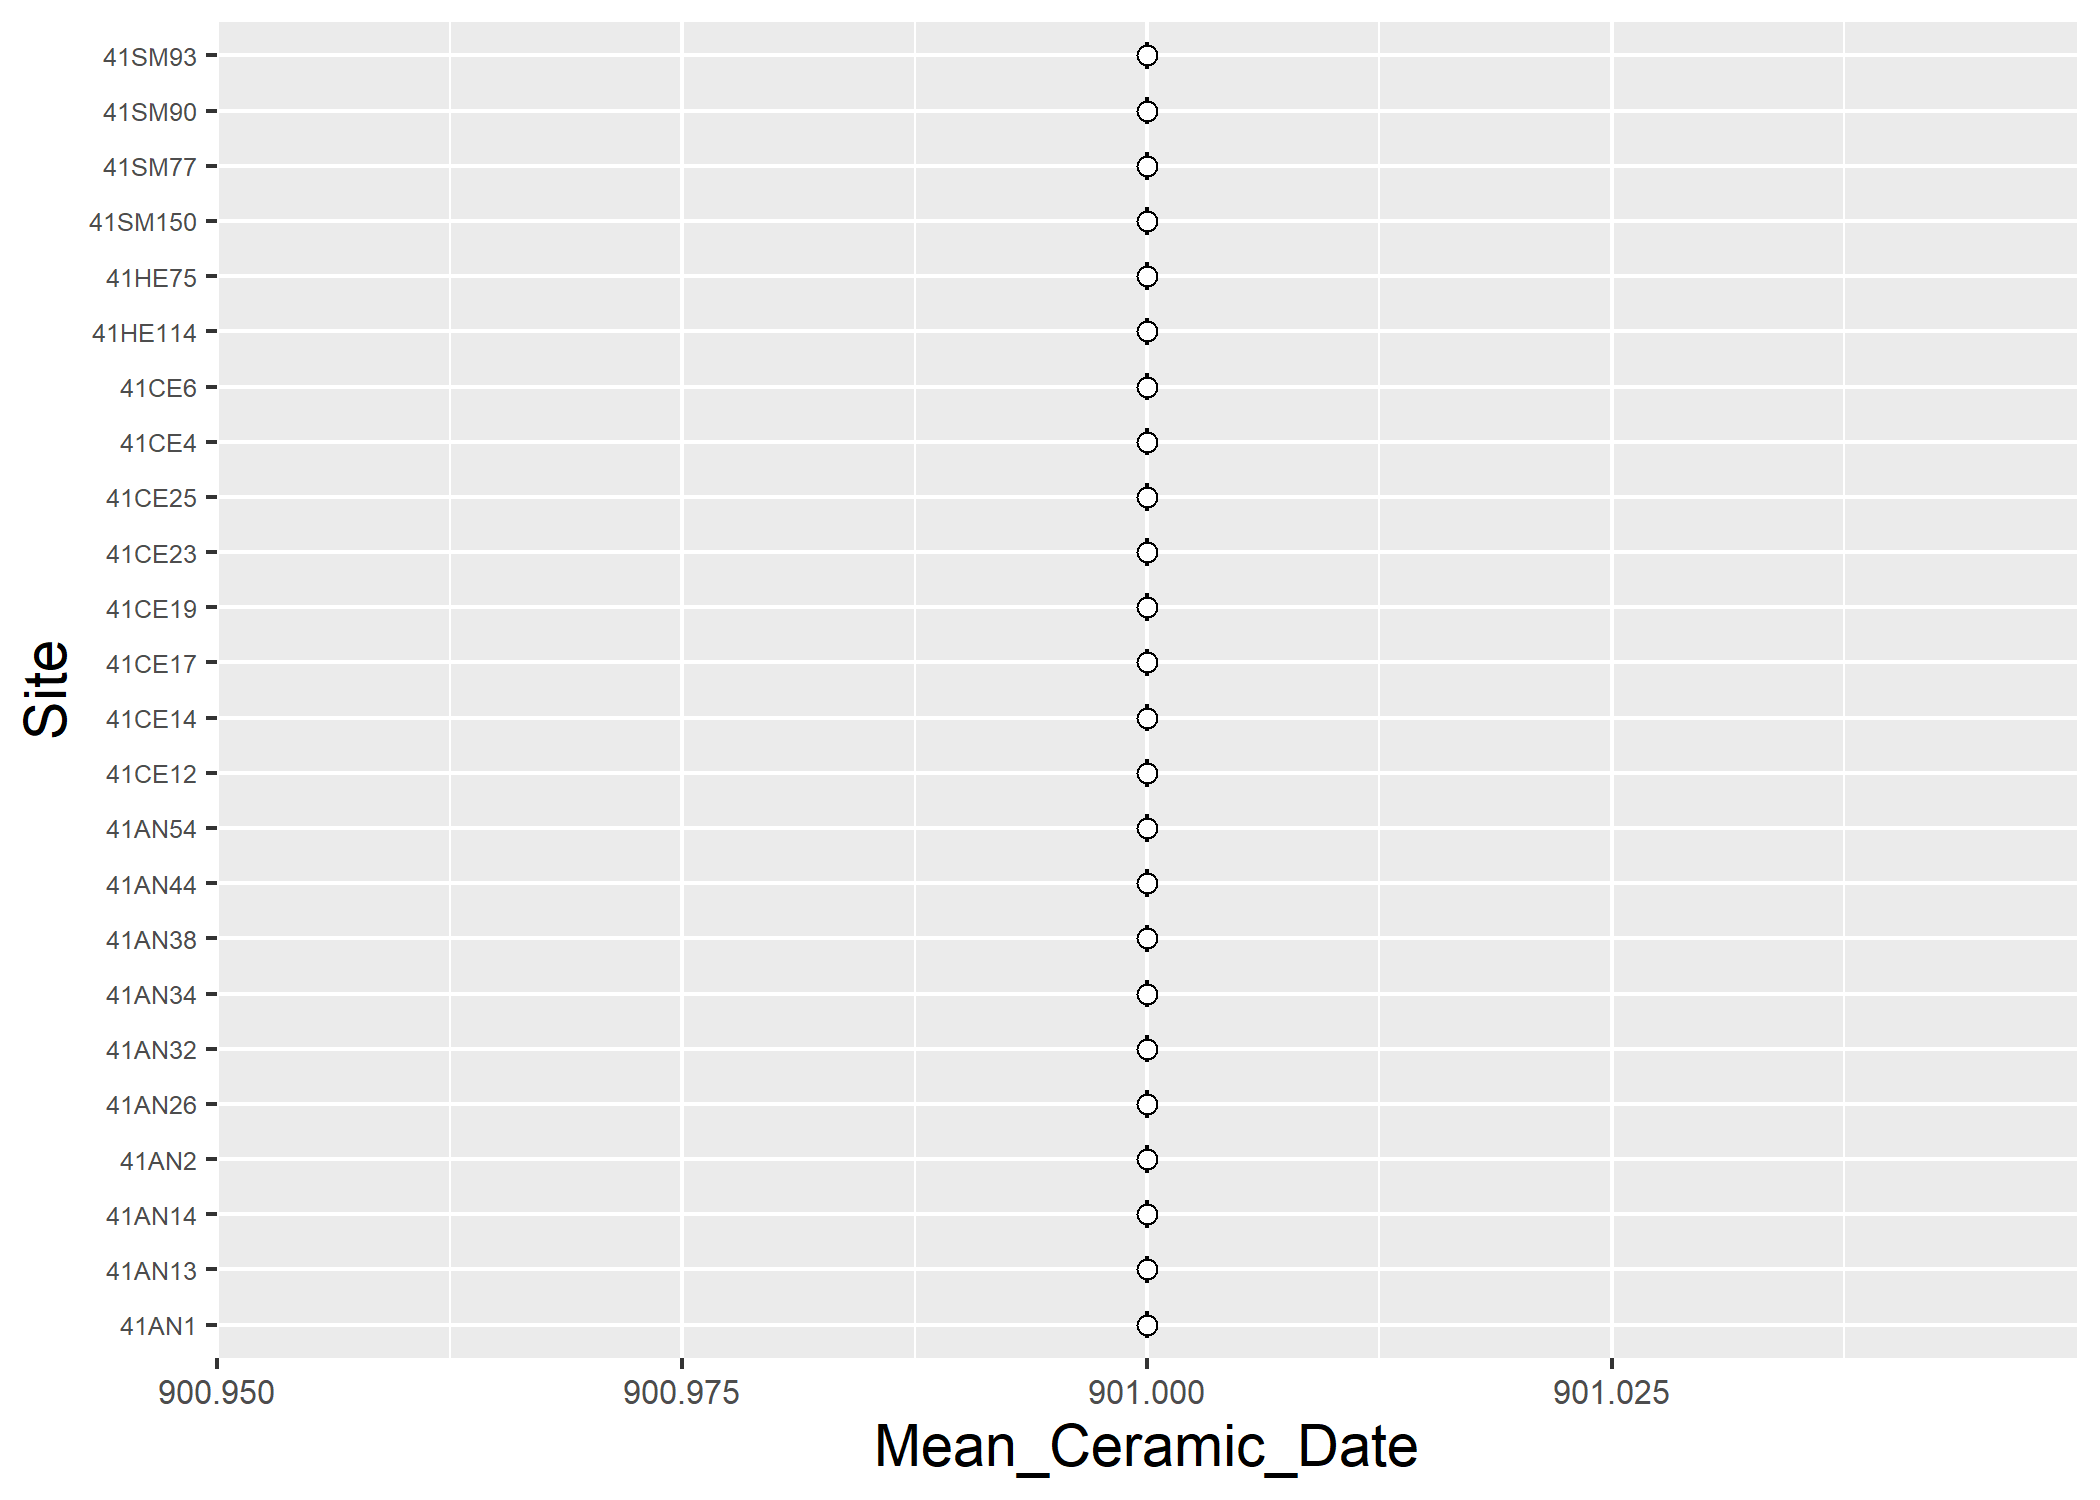
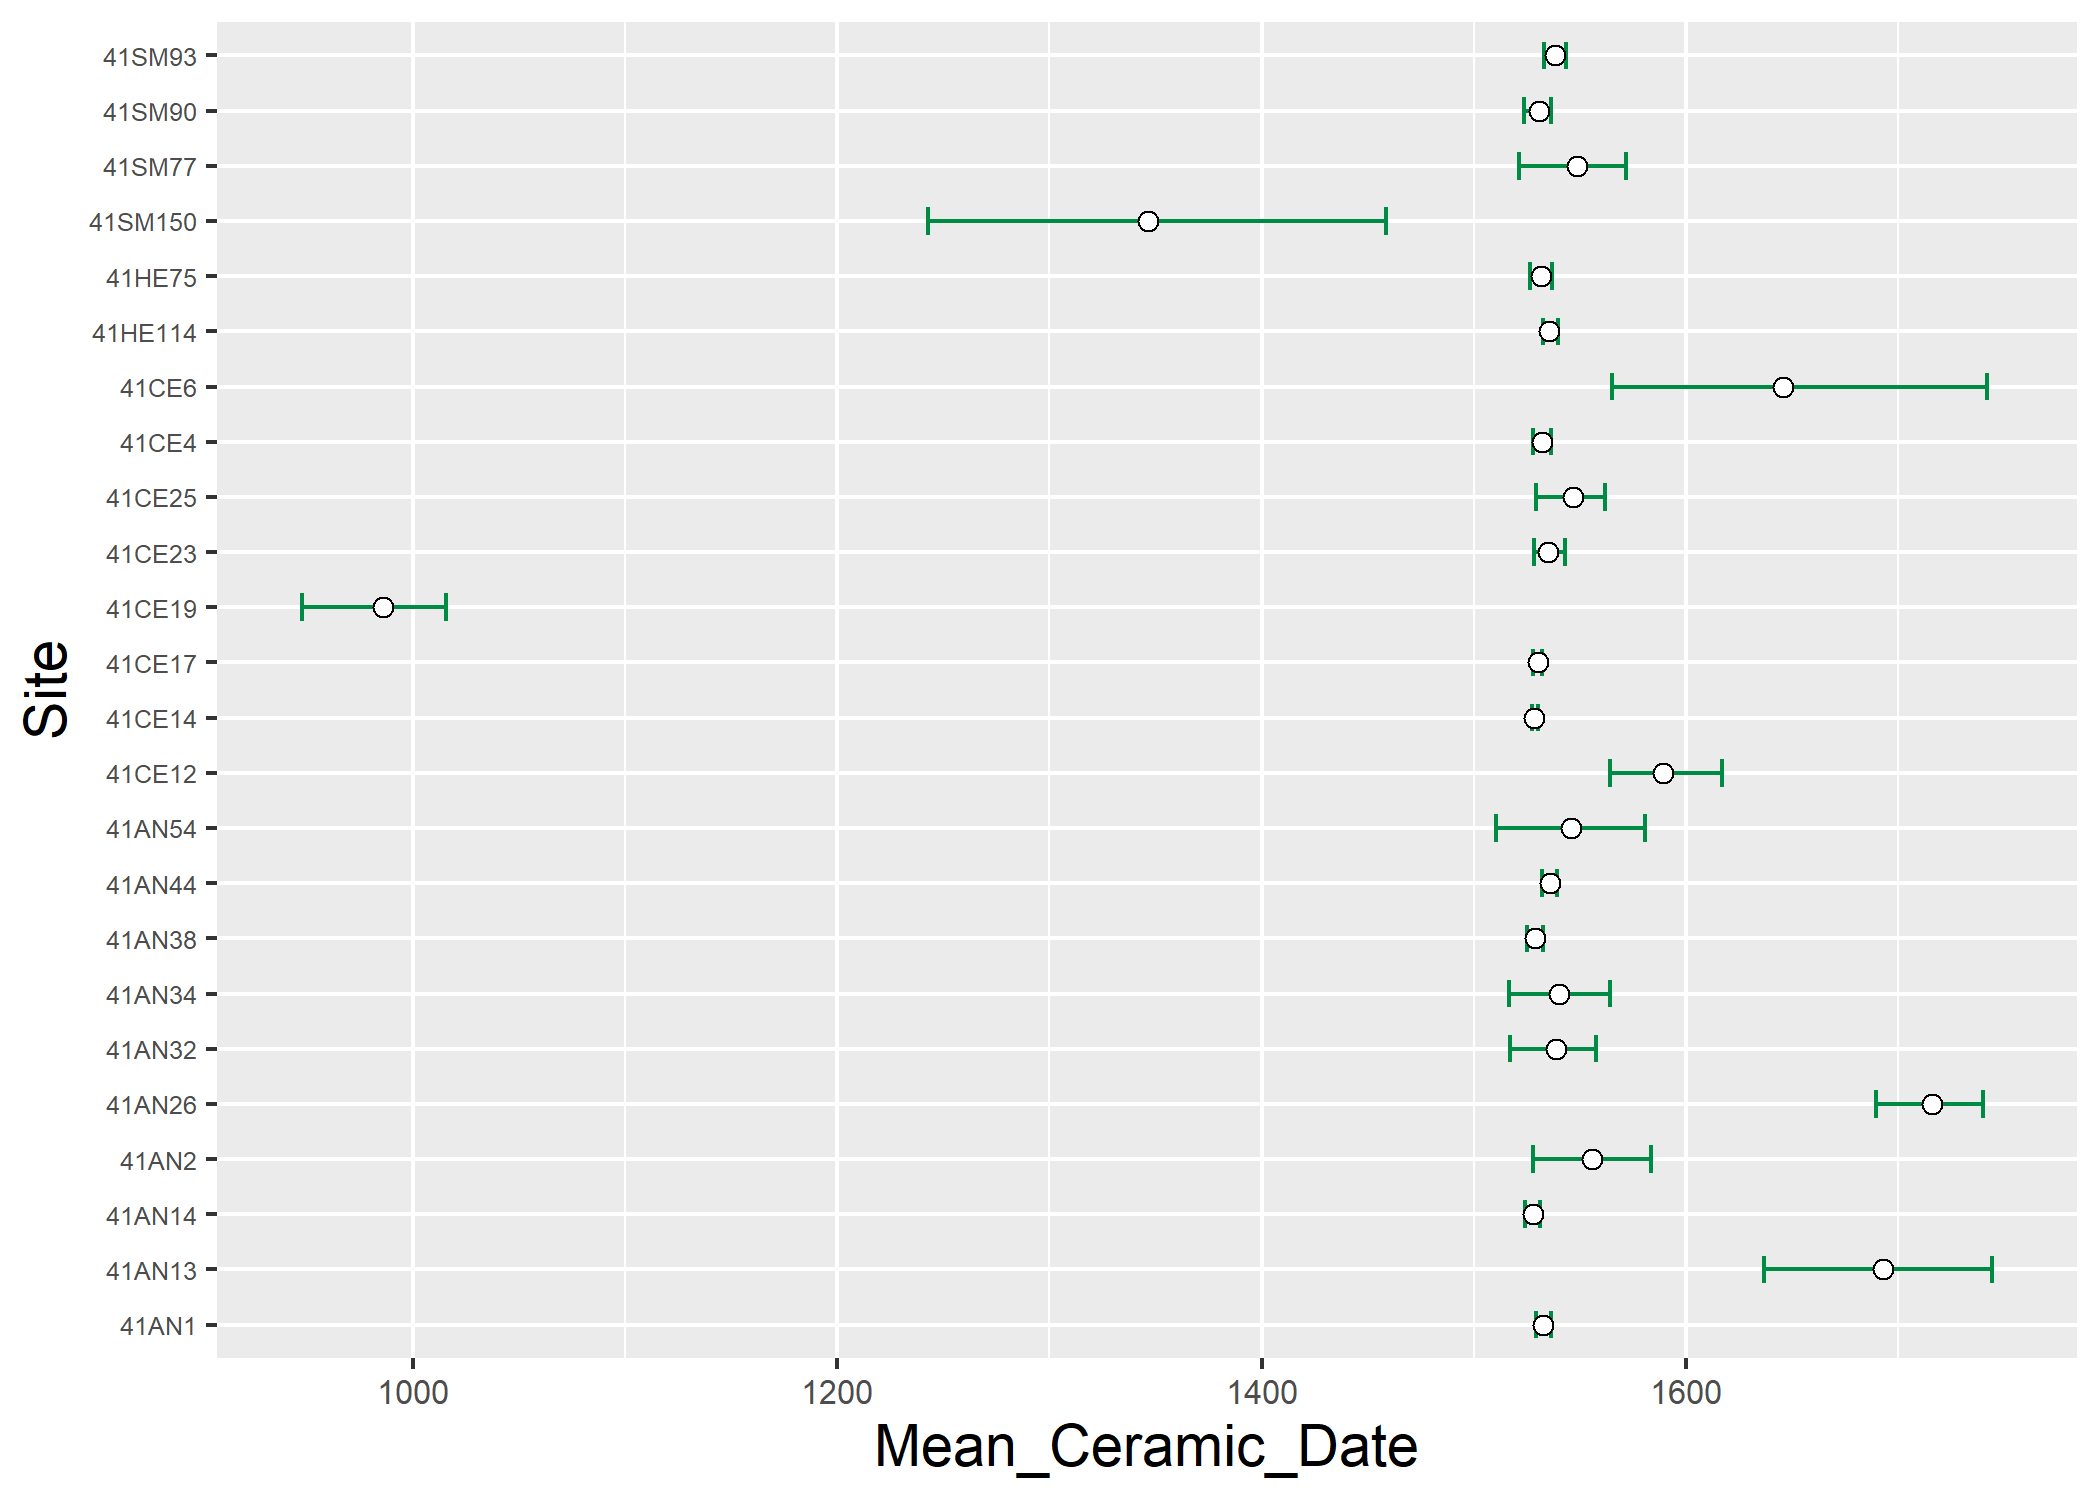
<edit mcd>

diff --git a/mcd.md b/mcd.md
@@ -1,14 +1,12 @@
-Mean Ceramic Dates for Caddo Sites in the Neches River Basin
+Mean ceramic dates for Caddo sites in the Neches River Basin
 ================
 Robert Z. Selden, Jr.
-March 23, 2020
+June 8, 2020
 
-## Including all sites and all vessels
+## Including all sites and vessels
 
 The code chunk below was developed by Matthew A. Peeples, following
-Keith Kintigh, who was channelling Stanley South (1977). Further details
-regarding the method can be found on [Matthew A.
-Peeples’](http://www.mattpeeples.net/mcd.html) website.
+Keith Kintigh, who was channelling Stanley South (1977).
 
 ``` r
 # this code chunk was repurposed from Matthew A. Peeples excellent example (link above)
@@ -61,7 +59,61 @@ range[i,2] <- mean(temp) + (sd(temp)*1.96)}
 
 output <- cbind(row.names(mydata),mcd,range)
 colnames(output) <- c('site','mcd','lower','higher') #modified from Peeples' code
+output
+```
 
+    ##         site      mcd                lower              higher            
+    ## 41SM56  "41SM56"  "1116.66666666667" "1092.60572071006" "1137.32625207906"
+    ## 41SM55  "41SM55"  "1250"             "1250"             "1250"            
+    ## 41SM77  "41SM77"  "1548.75"          "1515.79686290459" "1581.48885138112"
+    ## 41SM90  "41SM90"  "1530.625"         "1525.90057855822" "1535.50248266626"
+    ## 41SM73  "41SM73"  "1206.25"          "1037.92531976049" "1417.94202717829"
+    ## 41SM93  "41SM93"  "1538.5"           "1533.86899326854" "1542.5799863233" 
+    ## 41SM151 "41SM151" "1540"             "1540"             "1540"            
+    ## 41SM158 "41SM158" "1532.5"           "1521.32610622983" "1543.36777132119"
+    ## 41SM249 "41SM249" "1535"             "1528.11722667654" "1541.67869169081"
+    ## 41SM150 "41SM150" "1346.66666666667" "1234.50474273792" "1484.47484909881"
+    ## 41SM355 "41SM355" "1540"             "1540"             "1540"            
+    ## 41SM2   "41SM2"   "1525"             "1525"             "1525"            
+    ## 41HE114 "41HE114" "1535.26315789474" "1531.68163403791" "1539.65026714362"
+    ## 41HE4   "41HE4"   "1532.5"           "1523.48383332149" "1542.28147280096"
+    ## 41HE75  "41HE75"  "1531.66666666667" "1527.41730808645" "1536.52827014485"
+    ## 41HE78  "41HE78"  "1525"             "1525"             "1525"            
+    ## 41HE82  "41HE82"  "1540"             "1540"             "1540"            
+    ## 41HE7   "41HE7"   "1528.75"          "1522.03445055711" "1535.77167189187"
+    ## 41CE4   "41CE4"   "1532.14285714286" "1529.19549031812" "1535.7899324224" 
+    ## 41CE12  "41CE12"  "1589.13461538462" "1565.2671671028"  "1614.69751107617"
+    ## 41CE14  "41CE14"  "1528.57142857143" "1527.33625511998" "1530.03400727069"
+    ## 41CE15  "41CE15"  "1601.66666666667" "1489.13568691769" "1705.42213621156"
+    ## 41CE17  "41CE17"  "1530.19230769231" "1527.09437044098" "1533.50217586985"
+    ## 41CE19  "41CE19"  "1076.27272727273" "1054.11393205779" "1094.87957443572"
+    ## 41CE23  "41CE23"  "1535"             "1530.21907929911" "1539.47479825191"
+    ## 41CE25  "41CE25"  "1547"             "1526.8407403024"  "1569.63272908535"
+    ## 41CE421 "41CE421" "1525"             "1525"             "1525"            
+    ## 41CE6   "41CE6"   "1645.83333333333" "1570.13545244097" "1735.85094211685"
+    ## 41AN1   "41AN1"   "1532.75862068966" "1530.02933429185" "1535.3190119432" 
+    ## 41AN13  "41AN13"  "1692.69230769231" "1649.58611593453" "1735.50022629467"
+    ## 41AN14  "41AN14"  "1527.72727272727" "1525.02280931398" "1530.09778437804"
+    ## 41AN16  "41AN16"  "1525"             "1525"             "1525"            
+    ## 41AN18  "41AN18"  "1532.5"           "1520.84347825133" "1544.46264419765"
+    ## 41AN184 "41AN184" "1596.66666666667" "1462.47471495544" "1725.00827824184"
+    ## 41AN2   "41AN2"   "1555.625"         "1520.41461382768" "1587.82518209069"
+    ## 41AN21  "41AN21"  "1525"             "1525"             "1525"            
+    ## 41AN26  "41AN26"  "1716.11111111111" "1690.43769269852" "1738.53434055923"
+    ## 41AN32  "41AN32"  "1538.75"          "1520.29695995973" "1562.78467269333"
+    ## 41AN34  "41AN34"  "1540.27777777778" "1516.4795031365"  "1562.72684606985"
+    ## 41AN38  "41AN38"  "1528.75"          "1524.15548478683" "1532.73227031522"
+    ## 41AN39  "41AN39"  "1529.28571428571" "1524.19804862819" "1534.02352571584"
+    ## 41AN44  "41AN44"  "1535.90909090909" "1532.32408894628" "1539.88370326151"
+    ## 41AN48  "41AN48"  "1532.5"           "1522.96790364588" "1540.8076065582" 
+    ## 41AN53  "41AN53"  "1525"             "1525"             "1525"            
+    ## 41AN54  "41AN54"  "1545.71428571429" "1520.92262750682" "1569.83538998589"
+    ## 41AN56  "41AN56"  "1540"             "1540"             "1540"            
+    ## 41AN57  "41AN57"  "1525"             "1525"             "1525"            
+    ## 41AN67  "41AN67"  "1525"             "1525"             "1525"            
+    ## 41AG66  "41AG66"  "1250"             "1250"             "1250"
+
+``` r
 write.table(output,file='mcd_out.csv',sep=',',row.names=F)
 # end of Peeples' code
 ```
@@ -78,14 +130,14 @@ think it appropriate in this instance.
 library(tidyverse)
 ```
 
-    ## -- Attaching packages ------------------------------------- tidyverse 1.3.0.9000 --
+    ## -- Attaching packages -------------------------------------- tidyverse 1.3.0 --
 
-    ## v ggplot2 3.3.0.9000     v purrr   0.3.3     
-    ## v tibble  2.1.3          v dplyr   0.8.5     
-    ## v tidyr   1.0.2          v stringr 1.4.0     
-    ## v readr   1.3.1          v forcats 0.5.0
+    ## v ggplot2 3.3.1     v purrr   0.3.4
+    ## v tibble  3.0.1     v dplyr   1.0.0
+    ## v tidyr   1.1.0     v stringr 1.4.0
+    ## v readr   1.3.1     v forcats 0.5.0
 
-    ## -- Conflicts --------------------------------------------- tidyverse_conflicts() --
+    ## -- Conflicts ----------------------------------------- tidyverse_conflicts() --
     ## x dplyr::filter() masks stats::filter()
     ## x dplyr::lag()    masks stats::lag()
 
@@ -105,7 +157,7 @@ cs = theme(
   axis.text.y = element_text(size = 6))
 
 ggplot() +
-  geom_errorbar(data=caddo, mapping=aes(x=Site, ymin=lower, ymax=upper), width=0.5, size=0.5) +
+  geom_errorbar(data=caddo, mapping=aes(x=Site, ymin=lower, ymax=upper), width=0.5, size=0.5, colour = "springgreen4") +
   geom_point(data=caddo, mapping=aes(x=Site, y=Mean_Ceramic_Date), size=2, shape=21, fill = "white") +
   coord_flip() + # provides a representation of time similar to what archaeologists are used to seeing
   cs
@@ -166,7 +218,36 @@ range[i,2] <- mean(temp) + (sd(temp)*1.96)}
 
 output <- cbind(row.names(mydata),mcd,range)
 colnames(output) <- c('site','mcd','lower','higher') #modified from Peeples' code
+output
+```
 
+    ##         site      mcd                lower              higher            
+    ## 41SM77  "41SM77"  "1548.75"          "1521.25227191736" "1571.93522808264"
+    ## 41SM90  "41SM90"  "1530.625"         "1523.7147604585"  "1536.4414895415" 
+    ## 41SM93  "41SM93"  "1538.5"           "1533.00030435665" "1543.49969564335"
+    ## 41SM150 "41SM150" "1346.66666666667" "1242.80230844153" "1458.58658044736"
+    ## 41HE114 "41HE114" "1535.26315789474" "1532.44201971798" "1539.79482238729"
+    ## 41HE75  "41HE75"  "1531.66666666667" "1526.62555250903" "1536.98555860208"
+    ## 41CE4   "41CE4"   "1532.14285714286" "1527.97546013158" "1536.4888255827" 
+    ## 41CE12  "41CE12"  "1589.13461538462" "1564.05847746356" "1617.231586639"  
+    ## 41CE14  "41CE14"  "1528.57142857143" "1527.54540051797" "1530.20459948203"
+    ## 41CE17  "41CE17"  "1530.19230769231" "1527.85098499247" "1532.38939962292"
+    ## 41CE19  "41CE19"  "985.818181818182" "947.607389553501" "1015.63503468892"
+    ## 41CE23  "41CE23"  "1535"             "1528.36431072861" "1542.88568927139"
+    ## 41CE25  "41CE25"  "1547"             "1529.41153299421" "1561.83846700579"
+    ## 41CE6   "41CE6"   "1645.83333333333" "1565.21279461267" "1742.14831649844"
+    ## 41AN1   "41AN1"   "1532.75862068966" "1529.3229183838"  "1536.53915058172"
+    ## 41AN13  "41AN13"  "1692.69230769231" "1636.69217182105" "1744.36552048665"
+    ## 41AN14  "41AN14"  "1527.72727272727" "1524.13138725545" "1531.43679456273"
+    ## 41AN2   "41AN2"   "1555.625"         "1527.91856361741" "1583.48768638259"
+    ## 41AN26  "41AN26"  "1716.11111111111" "1689.71615051246" "1739.85175072211"
+    ## 41AN32  "41AN32"  "1538.75"          "1517.06435479235" "1557.81064520765"
+    ## 41AN34  "41AN34"  "1540.27777777778" "1516.66913997114" "1564.16419336219"
+    ## 41AN38  "41AN38"  "1528.75"          "1525.22753709396" "1532.68912957271"
+    ## 41AN44  "41AN44"  "1535.90909090909" "1532.1057382328"  "1539.48517085811"
+    ## 41AN54  "41AN54"  "1545.71428571429" "1510.31928992386" "1580.57356721899"
+
+``` r
 write.table(output,file='mcd_out2.csv',sep=',',row.names=F)
 # end of Peeples' code
 ```
@@ -196,7 +277,7 @@ cs = theme(
   axis.text.y = element_text(size = 6))
 
 ggplot() +
-  geom_errorbar(data=caddo2, mapping=aes(x=Site, ymin=lower, ymax=upper), width=0.5, size=0.5) +
+  geom_errorbar(data=caddo2, mapping=aes(x=Site, ymin=lower, ymax=upper), width=0.5, size=0.5, colour = "springgreen4") +
   geom_point(data=caddo2, mapping=aes(x=Site, y=Mean_Ceramic_Date), size=2, shape=21, fill = "white") +
   coord_flip() + # provides a representation of time similar to what archaeologists are used to seeing
   cs
